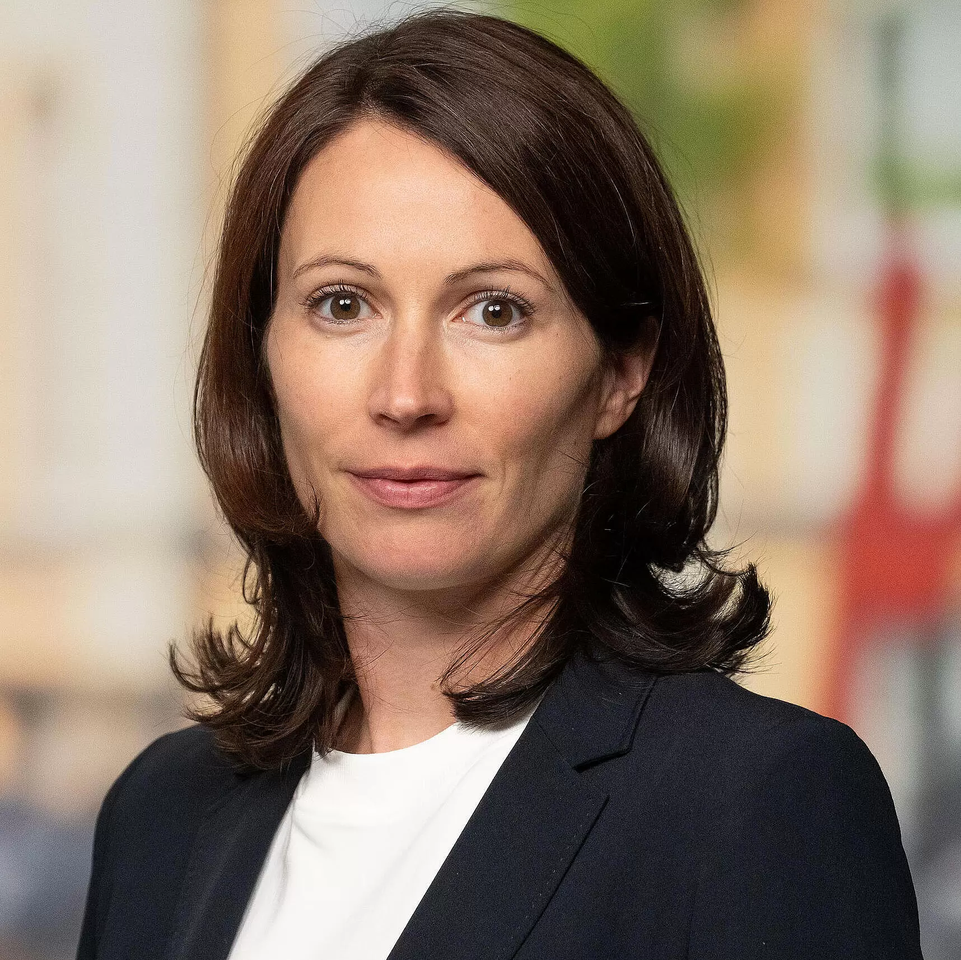
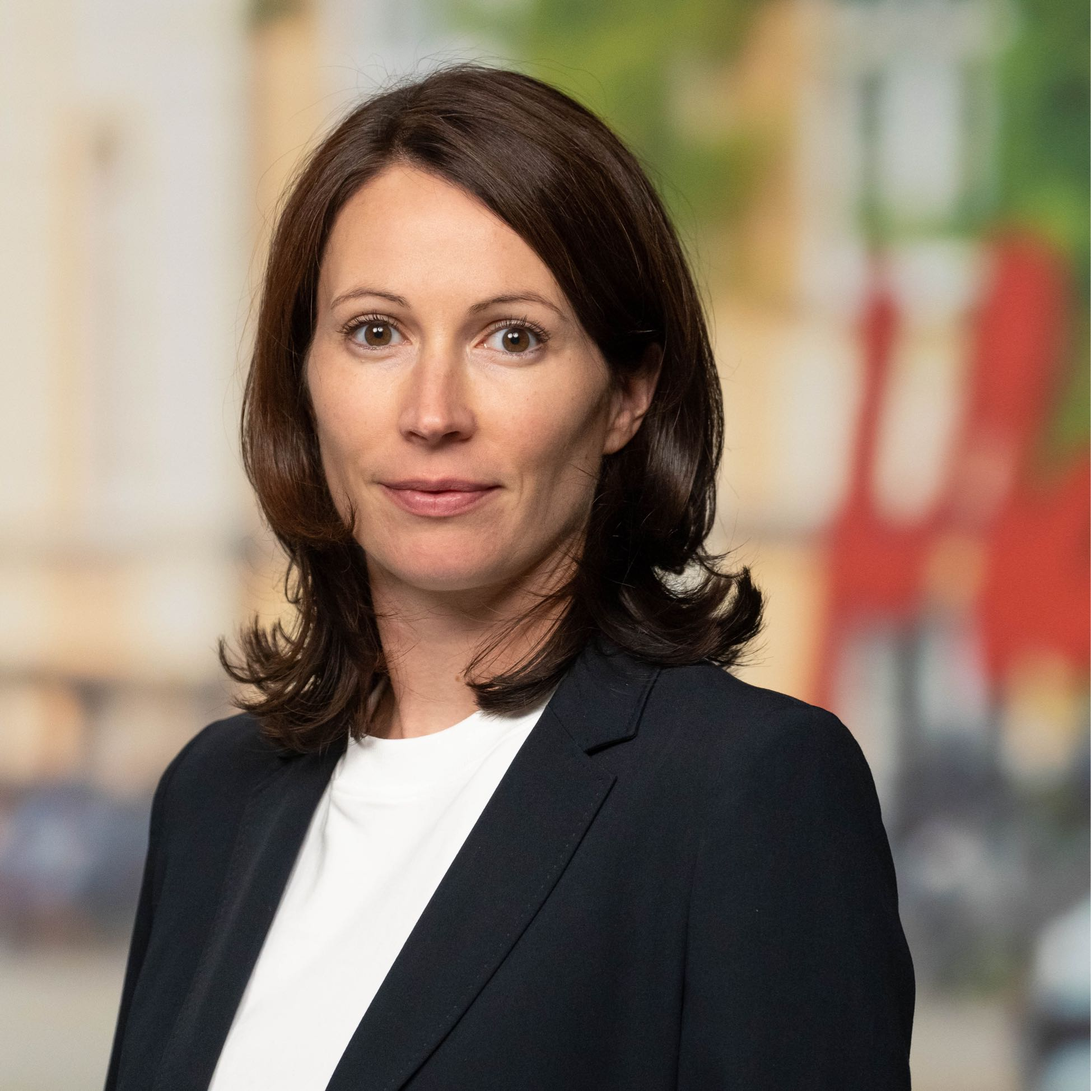
Update lecturers

diff --git a/index.html b/index.html
@@ -407,9 +407,9 @@
 			<div class="lg:col-span-3">
 				<ul class="space-y-12 sm:grid sm:grid-cols-3 sm:gap-x-6 sm:gap-y-12 sm:space-y-0 lg:gap-x-8">
 					<li>
-						<div class="space-y-4"><a href="" target="_blank" class="space-y-4"><div class="aspect-w-2 aspect-h-2 px-6"><img class="object-cover shadow-lg rounded-full" src="img/tbd.jpg" alt="tbd"></div><div class="text-lg leading-6 font-medium space-y-1"><h3>Stay tuned!</h3><p class="text-blsRed">Expect Surprises</p></div><div class="text-lg space-y-1"><p class="text-gray-500"></p><p class="text-gray-800">TBC</p></div></a><ul class="flex space-x-5"> <li><a href="" class="text-gray-400 hover:text-gray-500"><span class="sr-only">LinkedIn</span><svg class="w-5 h-5" fill="currentColor" viewBox="0 0 20 20" aria-hidden="true"><path fill-rule="evenodd" d="M16.338 16.338H13.67V12.16c0-.995-.017-2.277-1.387-2.277-1.39 0-1.601 1.086-1.601 2.207v4.248H8.014v-8.59h2.559v1.174h.037c.356-.675 1.227-1.387 2.526-1.387 2.703 0 3.203 1.778 3.203 4.092v4.711zM5.005 6.575a1.548 1.548 0 11-.003-3.096 1.548 1.548 0 01.003 3.096zm-1.337 9.763H6.34v-8.59H3.667v8.59zM17.668 1H2.328C1.595 1 1 1.581 1 2.298v15.403C1 18.418 1.595 19 2.328 19h15.34c.734 0 1.332-.582 1.332-1.299V2.298C19 1.581 18.402 1 17.668 1z" clip-rule="evenodd" /></svg></a></li></ul></div>					</li>
+						<div class="space-y-4"><a href="https://www.linkedin.com/in/mel-nirmala-599b2581/" target="_blank" class="space-y-4"><div class="aspect-w-2 aspect-h-2 px-6"><img class="object-cover shadow-lg rounded-full" src="img/mel-nirmala.jpg" alt="Mel Nirmala"></div><div class="text-lg leading-6 font-medium space-y-1"><h3>Mel Nirmala</h3><p class="text-blsRed">Bayer</p></div><div class="text-lg space-y-1"><p class="text-gray-500"></p><p class="text-gray-800">Nov 26</p></div></a><ul class="flex space-x-5"><li><a href="https://www.linkedin.com/in/mel-nirmala-599b2581/" class="text-gray-400 hover:text-gray-500"><span class="sr-only">LinkedIn</span><svg class="w-5 h-5" fill="currentColor" viewBox="0 0 20 20" aria-hidden="true"><path fill-rule="evenodd" d="M16.338 16.338H13.67V12.16c0-.995-.017-2.277-1.387-2.277-1.39 0-1.601 1.086-1.601 2.207v4.248H8.014v-8.59h2.559v1.174h.037c.356-.675 1.227-1.387 2.526-1.387 2.703 0 3.203 1.778 3.203 4.092v4.711zM5.005 6.575a1.548 1.548 0 11-.003-3.096 1.548 1.548 0 01.003 3.096zm-1.337 9.763H6.34v-8.59H3.667v8.59zM17.668 1H2.328C1.595 1 1 1.581 1 2.298v15.403C1 18.418 1.595 19 2.328 19h15.34c.734 0 1.332-.582 1.332-1.299V2.298C19 1.581 18.402 1 17.668 1z" clip-rule="evenodd" /></svg></a></li></ul></div>
 					<li>
-						<div class="space-y-4"><a href="" target="_blank" class="space-y-4"><div class="aspect-w-2 aspect-h-2 px-6"><img class="object-cover shadow-lg rounded-full" src="img/tbd.jpg" alt="tbd"></div><div class="text-lg leading-6 font-medium space-y-1"><h3>Stay tuned!</h3><p class="text-blsRed">Expect Surprises</p></div><div class="text-lg space-y-1"><p class="text-gray-500"></p><p class="text-gray-800">TBC</p></div></a><ul class="flex space-x-5"> <li><a href="" class="text-gray-400 hover:text-gray-500"><span class="sr-only">LinkedIn</span><svg class="w-5 h-5" fill="currentColor" viewBox="0 0 20 20" aria-hidden="true"><path fill-rule="evenodd" d="M16.338 16.338H13.67V12.16c0-.995-.017-2.277-1.387-2.277-1.39 0-1.601 1.086-1.601 2.207v4.248H8.014v-8.59h2.559v1.174h.037c.356-.675 1.227-1.387 2.526-1.387 2.703 0 3.203 1.778 3.203 4.092v4.711zM5.005 6.575a1.548 1.548 0 11-.003-3.096 1.548 1.548 0 01.003 3.096zm-1.337 9.763H6.34v-8.59H3.667v8.59zM17.668 1H2.328C1.595 1 1 1.581 1 2.298v15.403C1 18.418 1.595 19 2.328 19h15.34c.734 0 1.332-.582 1.332-1.299V2.298C19 1.581 18.402 1 17.668 1z" clip-rule="evenodd" /></svg></a></li></ul></div>
+						<div class="space-y-4"><a href="https://www.linkedin.com/in/rishi-ballakhan-586005197/" target="_blank" class="space-y-4"><div class="aspect-w-2 aspect-h-2 px-6"><img class="object-cover shadow-lg rounded-full" src="img/rishi-ballakhan.jpg" alt="Rishi Ballakhan"></div><div class="text-lg leading-6 font-medium space-y-1"><h3>Rishi Ballakhan</h3><p class="text-blsRed">EY</p></div><div class="text-lg space-y-1"><p class="text-gray-500"></p><p class="text-gray-800">Nov 26</p></div></a><ul class="flex space-x-5"> <li><a href="https://www.linkedin.com/in/rishi-ballakhan-586005197/" class="text-gray-400 hover:text-gray-500"><span class="sr-only">LinkedIn</span><svg class="w-5 h-5" fill="currentColor" viewBox="0 0 20 20" aria-hidden="true"><path fill-rule="evenodd" d="M16.338 16.338H13.67V12.16c0-.995-.017-2.277-1.387-2.277-1.39 0-1.601 1.086-1.601 2.207v4.248H8.014v-8.59h2.559v1.174h.037c.356-.675 1.227-1.387 2.526-1.387 2.703 0 3.203 1.778 3.203 4.092v4.711zM5.005 6.575a1.548 1.548 0 11-.003-3.096 1.548 1.548 0 01.003 3.096zm-1.337 9.763H6.34v-8.59H3.667v8.59zM17.668 1H2.328C1.595 1 1 1.581 1 2.298v15.403C1 18.418 1.595 19 2.328 19h15.34c.734 0 1.332-.582 1.332-1.299V2.298C19 1.581 18.402 1 17.668 1z" clip-rule="evenodd" /></svg></a></li></ul></div>
 					</li>
 				</ul>
 			</div>
@@ -426,7 +426,7 @@
 			<div class="lg:col-span-3">
 				<ul class="space-y-12 sm:grid sm:grid-cols-3 sm:gap-x-6 sm:gap-y-12 sm:space-y-0 lg:gap-x-8">
 					<li>
-						<div class="space-y-4"><a href="" target="_blank" class="space-y-4"><div class="aspect-w-2 aspect-h-2 px-6"><img class="object-cover shadow-lg rounded-full" src="img/tbd.jpg" alt="tbd"></div><div class="text-lg leading-6 font-medium space-y-1"><h3>Stay tuned!</h3><p class="text-blsRed">Expect Surprises</p></div><div class="text-lg space-y-1"><p class="text-gray-500"></p><p class="text-gray-800">TBC</p></div></a><ul class="flex space-x-5"> <li><a href="" class="text-gray-400 hover:text-gray-500"><span class="sr-only">LinkedIn</span><svg class="w-5 h-5" fill="currentColor" viewBox="0 0 20 20" aria-hidden="true"><path fill-rule="evenodd" d="M16.338 16.338H13.67V12.16c0-.995-.017-2.277-1.387-2.277-1.39 0-1.601 1.086-1.601 2.207v4.248H8.014v-8.59h2.559v1.174h.037c.356-.675 1.227-1.387 2.526-1.387 2.703 0 3.203 1.778 3.203 4.092v4.711zM5.005 6.575a1.548 1.548 0 11-.003-3.096 1.548 1.548 0 01.003 3.096zm-1.337 9.763H6.34v-8.59H3.667v8.59zM17.668 1H2.328C1.595 1 1 1.581 1 2.298v15.403C1 18.418 1.595 19 2.328 19h15.34c.734 0 1.332-.582 1.332-1.299V2.298C19 1.581 18.402 1 17.668 1z" clip-rule="evenodd" /></svg></a></li></ul></div>
+						<div class="space-y-4"><a href="https://www.linkedin.com/in/noemiealintissar/" target="_blank" class="space-y-4"><div class="aspect-w-2 aspect-h-2 px-6"><img class="object-cover shadow-lg rounded-full" src="img/noemie-alintissar-mooney.jpg" alt="Noemie Alintissar-Mooney"></div><div class="text-lg leading-6 font-medium space-y-1"><h3>Noemie Alintissar-Mooney</h3><p class="text-blsRed">Singapore Academy of Law</p></div><div class="text-lg space-y-1"><p class="text-gray-500"></p><p class="text-gray-800">TBD</p></div></a><ul class="flex space-x-5"><li><a href="https://www.linkedin.com/in/noemiealintissar/" class="text-gray-400 hover:text-gray-500"><span class="sr-only">LinkedIn</span><svg class="w-5 h-5" fill="currentColor" viewBox="0 0 20 20" aria-hidden="true"><path fill-rule="evenodd" d="M16.338 16.338H13.67V12.16c0-.995-.017-2.277-1.387-2.277-1.39 0-1.601 1.086-1.601 2.207v4.248H8.014v-8.59h2.559v1.174h.037c.356-.675 1.227-1.387 2.526-1.387 2.703 0 3.203 1.778 3.203 4.092v4.711zM5.005 6.575a1.548 1.548 0 11-.003-3.096 1.548 1.548 0 01.003 3.096zm-1.337 9.763H6.34v-8.59H3.667v8.59zM17.668 1H2.328C1.595 1 1 1.581 1 2.298v15.403C1 18.418 1.595 19 2.328 19h15.34c.734 0 1.332-.582 1.332-1.299V2.298C19 1.581 18.402 1 17.668 1z" clip-rule="evenodd" /></svg></a></li></ul></div>
 					</li>
 				</ul>
 			</div>
